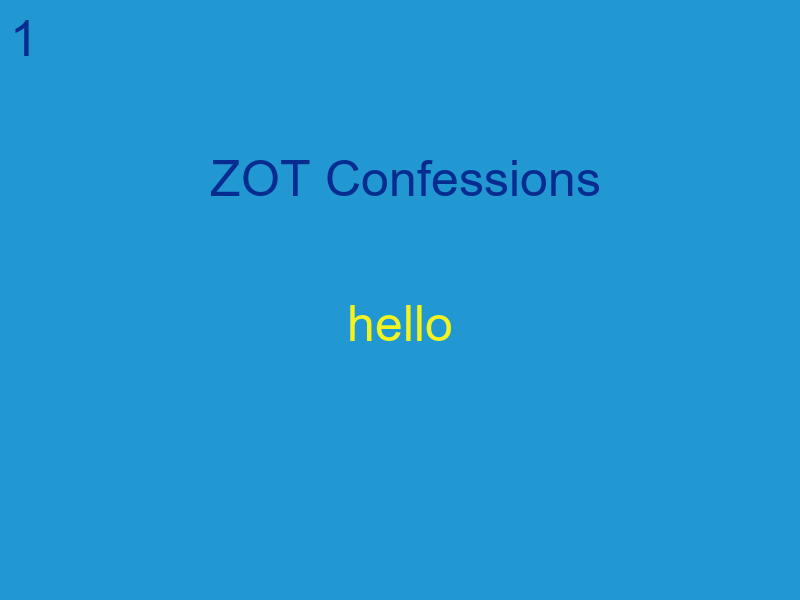
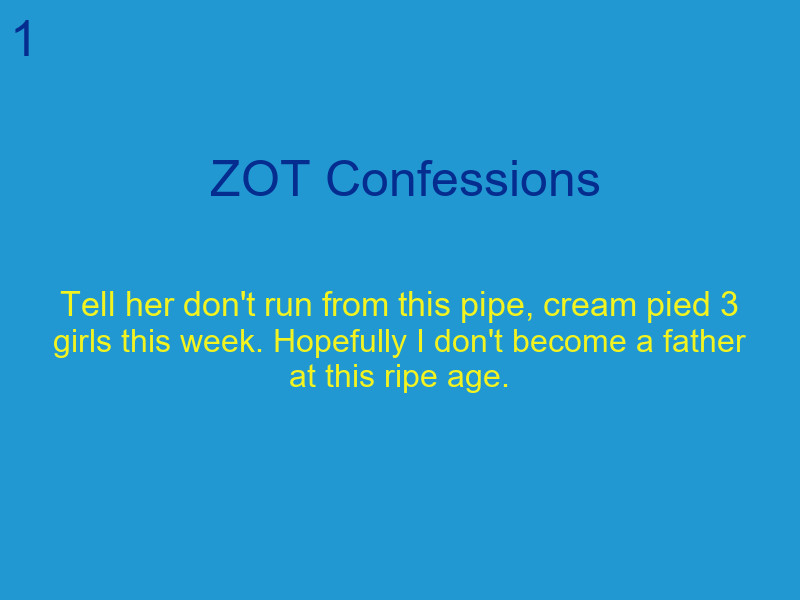
PUsh

Changed region(s): [[0.0625, 0.48, 0.9375, 0.66]]

diff --git a/back.py b/back.py
@@ -15,16 +15,6 @@ client = discovery.build( #Service Object Creation
   static_discovery=False,
 )
 
-
-
-
-
-
-
-
-
-
-
 # Open data.json file, otherwise create it
 def save(counter, text):
     try:
@@ -36,7 +26,6 @@ def save(counter, text):
         data = {counter: text}
     with open("data.json", "w") as file:
         json.dump(data, file, indent=4)
-
 
 def create_image_with_text(text, image_width, image_height, margin, counter, font_size=50):
     # Create an image with background
@@ -112,20 +101,20 @@ def main():
     else:
         print(prob1) #if it the probability is high enough, the comment will not be added
         print("Too inapproriate!")    #this indicates that the comment would most likely break guidelines we set
-    another = input("Do you want to make another confession?\n")
+    another = input("Do you want to make another confession?\n") #take the frontend submit again button input and send to here
 
     while another.lower() != "no":
         text = input("Enter your confession:\n")
         analyze_request = {
         'comment': { 'text': text },
         'requestedAttributes': 
-        {'PROFANITY': {}, 
+        {'THREAT': {}, 
         'TOXICITY': {}}
         }
         response = client.comments().analyze(body=analyze_request).execute()
         prob2 = response["attributeScores"]["TOXICITY"]["spanScores"][0]["score"]["value"]
         
-        if prob2 < 0.7: 
+        if prob2 < 0.8765: 
             print(prob2) 
             print("leave in")
             create_image_with_text(text, image_width, image_height, margin, counter)
